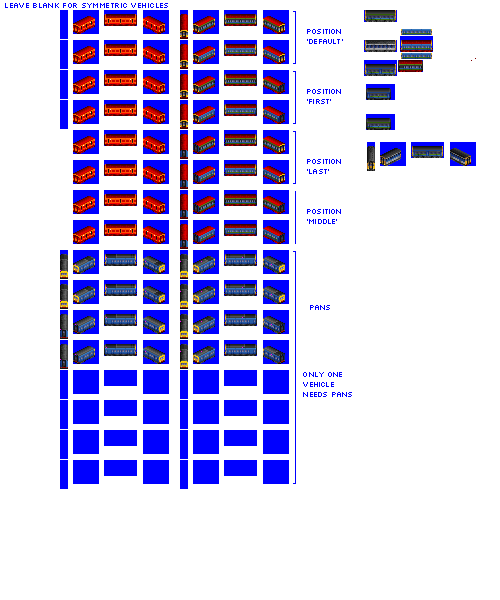
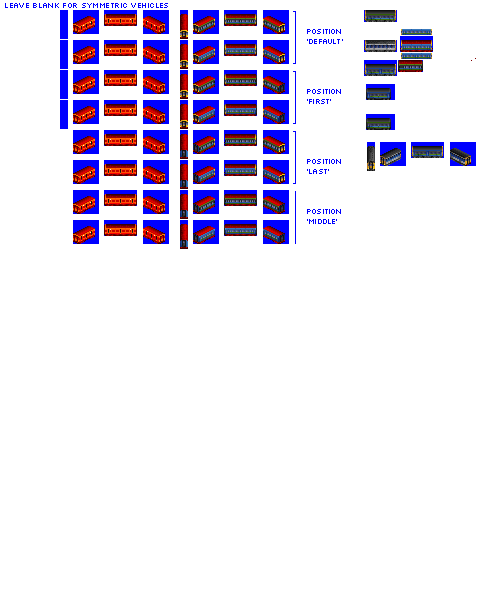
Codechange: electric railcar trailers don't need pans

Changed region(s): [[0.12, 0.39, 0.69, 0.81], [0.63, 0.51, 0.66, 0.54]]

diff --git a/src/vehicles/railcar_passenger_trailer_cars.py b/src/vehicles/railcar_passenger_trailer_cars.py
@@ -33,7 +33,7 @@ def main():
         base_numeric_id=14930,
         gen=4,
         subtype="U",
-        sprites_complete=False,
+        sprites_complete=True,
         cab_id="geronimo",
     )
 
@@ -63,7 +63,7 @@ def main():
         base_numeric_id=14910,
         gen=5,
         subtype="U",
-        sprites_complete=False,
+        sprites_complete=True,
         cab_id="breeze",
     )
 
@@ -94,7 +94,7 @@ def main():
         gen=6,
         subtype="U",
         cab_id="zeus",
-        sprites_complete=False,
+        sprites_complete=True,
     )
 
     consist.add_unit(
